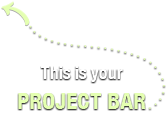
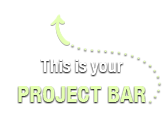
* remove console * update pos

Changed region(s): [[0.0898, 0.531, 0.988, 0.9823], [0.0, 0.0, 1.0, 0.8496]]

diff --git a/plugins-client/ext.quickstart/quickstart.js b/plugins-client/ext.quickstart/quickstart.js
@@ -142,7 +142,6 @@ module.exports = ext.register("ext/quickstart/quickstart", {
     arrangeQSImages : function() {
         var divToId, position, imgDiv;
         for (var i = 0; i < jsonQuickStart.identifiers.length; i++) {
-            console.log(jsonQuickStart.identifiers[i].el)
             if((jsonQuickStart.identifiers[i].visible && !jsonQuickStart.identifiers[i].visible()) || !jsonQuickStart.identifiers[i].el)
                 continue;
 
@@ -168,7 +167,7 @@ module.exports = ext.register("ext/quickstart/quickstart", {
              div.setAttribute("left", (posArray[0] + (posArray[2]/2)) - (div.getWidth()/2));
         }
         else if (position == "right"){
-            div.setAttribute("left", posArray[0] + posArray[2] - 2);
+            div.setAttribute("left", posArray[0] + 10);
             div.setAttribute("top", (posArray[1] + (posArray[3]/2)) - (div.getHeight()/2));
         }
         else if (position == "bottom"){
